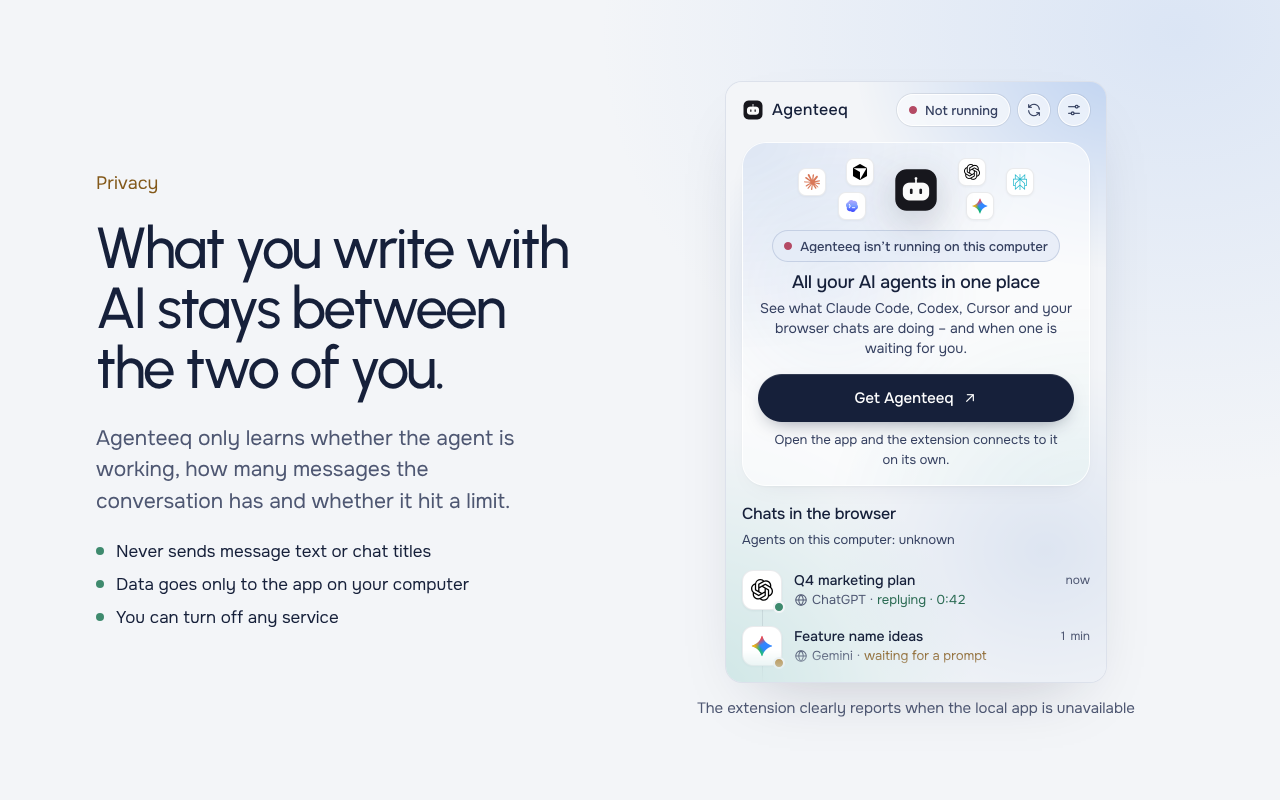
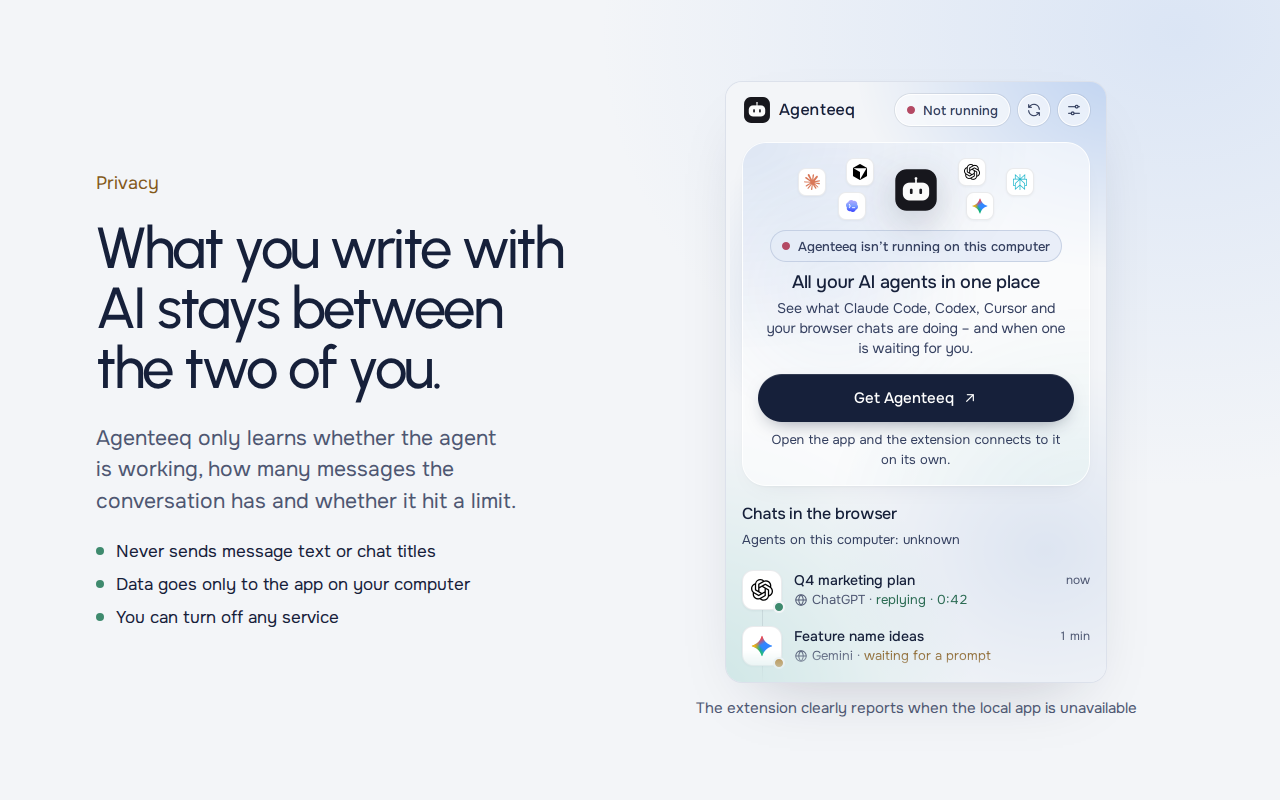
Značka v hlavičce: větší hlava robota vůči nápisu, jeden poměr všude (#255)
Hlava robota byla vedle nápisu „Agenteeq“ menší než verzálky a každý produkt
měl jiný poměr (aplikace 34 px k 20px písmu, rozšíření 22 px k 16 px, web
34 px k 19 px s mezerou 1,4× verzálek). Velikost loga se teď odvozuje z
velikosti nápisu tokeny --brand-word × --brand-mark-tile (1,9, logo v dlaždici)
nebo --brand-mark-clean (2,1, logo bez dlaždice na webu). Hlava ≈ výška
verzálek, mezera měřená od viditelného tvaru 0,55 em. Logo samo, jeho
geometrie 78:53 ani SVG se nemění.

- aplikace (postranní panel), okno rozšíření, hlavička webu (CZ/EN, 1440 i
  375 px) a stránky se zásadami (logo v dlaždici, třída brand--tile),
- qa:tvary měří velikost, mezeru a svislý střed značky na vykreslené ploše,
- test/znacka-hlavicka.test.mjs hlídá tokeny ve zdrojích,
- snímky pro Chrome Web Store přegenerované skriptem snimky.mjs,
- DESIGN.md: pravidlo „Značka v hlavičce“, CHANGELOG.

Claude-Session: https://claude.ai/code/session_019pjCMAW6NZjG9fzTfPLyCe

diff --git a/extension/popup.html b/extension/popup.html
@@ -35,6 +35,8 @@
       /* Tichá atmosféra aplikace zmenšená na okno: modré světlo vpravo nahoře, šalvěj vlevo dole. Nehýbe se. */
       --atmosphere: radial-gradient(380px 300px at 104% -4%, rgba(150, 184, 236, .58), transparent 70%), radial-gradient(400px 400px at -8% 104%, rgba(158, 212, 206, .46), transparent 70%), radial-gradient(300px 260px at 84% 78%, rgba(190, 206, 232, .40), transparent 72%);
       --w: 380px;
+      /* Značka v hlavičce: stejný poměr loga v dlaždici k nápisu jako v aplikaci (public/styles.css). */
+      --brand-word: 16px; --brand-mark-tile: 1.9;
       color-scheme: light;
     }
     /* Noc: tytéž role jako v aplikaci, inkoust a mlha si prohodí místo. */
@@ -85,7 +87,8 @@
     body[data-odrolovano='true'] .top::after { opacity: 1; }
     /* Značka otevírá aplikaci (jediné místo s touto akcí): kapsle 32 px, plocha až při najetí. Bez
        běžící aplikace je to jen značka – odkaz by vedl na nedostupnou adresu. */
-    .brand { display: inline-flex; align-items: center; gap: 8px; height: 32px; margin: 0 auto 0 -8px; padding: 0 10px 0 8px; min-width: 0; border-radius: var(--r-full); color: var(--ink); font: 500 16px/1 var(--f-display); letter-spacing: .02em; text-decoration: none; transition: background-color var(--motion-response) var(--ease), box-shadow var(--motion-response) var(--ease); }
+    .brand { --brand-mark: round(calc(var(--brand-word) * var(--brand-mark-tile)), 1px); display: inline-flex; align-items: center; gap: max(0px, calc(var(--brand-word) * .55 - var(--brand-mark) * .068)); height: 32px; margin: 0 auto 0 -8px; padding: 0 10px 0 8px; min-width: 0; border-radius: var(--r-full); color: var(--ink); font: 500 var(--brand-word)/1 var(--f-display); letter-spacing: .02em; text-decoration: none; transition: background-color var(--motion-response) var(--ease), box-shadow var(--motion-response) var(--ease); }
+    .brand > img { width: var(--brand-mark); height: var(--brand-mark); flex: none; }
     .brand .sipka { width: 14px; height: 14px; color: var(--ink-2); transition: transform var(--motion-move) var(--ease-out); }
     a.brand:hover { background: var(--glass-strong); box-shadow: inset 0 0 0 1px var(--glass-rim), 0 0 0 1px var(--hair); }
     a.brand:hover .sipka { transform: translate(2px, -2px); }
@@ -366,7 +369,7 @@
 </head>
 <body class="ext-okno" data-stav="nacitam" data-pohled="hlavni">
   <header class="top">
-    <a class="brand" id="brand" href="http://127.0.0.1:4620/" target="_blank" rel="noopener" aria-label="Otevřít aplikaci Agenteeq" title="Otevřít aplikaci Agenteeq" data-i18n-attr="aria-label,title"><img src="icons/brand.svg" width="22" height="22" alt="">Agenteeq<svg class="ico sipka" viewBox="0 0 24 24" aria-hidden="true"><path d="M7 17 17 7M8 7h9v9"/></svg></a>
+    <a class="brand" id="brand" href="http://127.0.0.1:4620/" target="_blank" rel="noopener" aria-label="Otevřít aplikaci Agenteeq" title="Otevřít aplikaci Agenteeq" data-i18n-attr="aria-label,title"><img src="icons/brand.svg" width="30" height="30" alt="">Agenteeq<svg class="ico sipka" viewBox="0 0 24 24" aria-hidden="true"><path d="M7 17 17 7M8 7h9v9"/></svg></a>
     <span class="chip chip--glass stav" id="pill" role="status"><span class="dot"></span><span id="pill-text" data-i18n>Zjišťuji…</span></span>
     <button class="icon-btn" id="refresh-popup" type="button" aria-label="Obnovit aktuální stav" title="Obnovit aktuální stav" data-i18n-attr="aria-label,title">
       <svg class="ico" viewBox="0 0 24 24" aria-hidden="true"><path d="M20 11a8 8 0 0 0-14.9-3.5M4 4v4h4M4 13a8 8 0 0 0 14.9 3.5M20 20v-4h-4"/></svg>

diff --git a/site/lp.css b/site/lp.css
@@ -30,6 +30,10 @@
   --r-tile: 28px; --r-lg: 24px; --r-md: 16px; --r-sm: 12px; --r-xs: 6px; --r-full: 999px;
   --ease: cubic-bezier(.2, .8, .2, 1);
   --page: 1120px;
+  /* Značka v hlavičce: velikost loga se odvozuje z nápisu (docs/DESIGN.md, Značka v hlavičce).
+     Logo bez dlaždice má rámeček 2,1× písmo (hlava ≈ výška verzálek, s anténou ≈ 1,4×), logo
+     v dlaždici 1,9× jako v aplikaci. Mezera se měří od viditelného tvaru: .55em. */
+  --brand-word: 19px; --brand-mark-clean: 2.1; --brand-mark-tile: 1.9;
   --unit-y: clamp(96px, 11vw, 160px);
   color-scheme: light;
 }
@@ -773,8 +777,12 @@ footer.site-footer { padding:0; border-color:rgba(255,255,255,.08); }
 .nav { background:#111017; }
 .nav.is-odjeto { background:rgba(17,16,23,.85); backdrop-filter:blur(24px) saturate(135%); -webkit-backdrop-filter:blur(24px) saturate(135%); border-bottom-color:rgba(255,255,255,.1); box-shadow:0 12px 35px -28px rgba(0,0,0,.8); }
 .nav-in { min-height:76px; gap:clamp(18px,2.5vw,36px); }
-.nav .brand { font-size:19px; gap:12px; letter-spacing:-.025em; }
-.nav .brand img { width:34px; height:34px; }
+.nav .brand { --brand-ratio:var(--brand-mark-clean); --brand-bearing:.226; --brand-mark:round(calc(var(--brand-word) * var(--brand-ratio)), 1px); font-size:var(--brand-word); letter-spacing:-.025em;
+  /* Rámeček loga má po stranách prázdno (bez dlaždice 22,6 %, dlaždice 6,8 %), proto se mezera
+     počítá od viditelného tvaru: všude .55em, stejně jako v aplikaci a rozšíření. */
+  gap:max(0px, calc(.55em - var(--brand-mark) * var(--brand-bearing))); }
+.nav .brand--tile { --brand-ratio:var(--brand-mark-tile); --brand-bearing:.068; }
+.nav .brand img { width:var(--brand-mark); height:var(--brand-mark); }
 .nav-links { gap:clamp(12px,2vw,26px); }
 .nav-links a { display:inline-flex; align-items:center; min-height:40px; border-radius:var(--r-full); padding:0 9px; transition:color .2s var(--ease),background-color .2s var(--ease); }
 .nav-links a:hover { background:rgba(255,255,255,.06); }
@@ -801,7 +809,7 @@ footer.site-footer { padding:0; border-color:rgba(255,255,255,.08); }
  #vyzkouset .steps li:hover::before { transform:translate3d(10%,8%,0); }
 }
 @media(max-width:900px) { #vyzkouset .steps li { min-height:unset; } }
-@media(max-width:620px) { .nav-in { min-height:68px; gap:12px; } .nav .brand { gap:8px; font-size:17px; } .nav .brand img { width:30px; height:30px; } #vyzkouset .steps { gap:12px; } }
+@media(max-width:620px) { .nav-in { min-height:68px; gap:12px; } .nav .brand { --brand-word:17px; } #vyzkouset .steps { gap:12px; } }
 @media(prefers-reduced-motion:reduce) { #vyzkouset .steps li,#vyzkouset .steps li::before,.nav .btn--sm { transition:none!important; transform:none!important; } }
 
 /* Compact editorial bento: one full-width real app overview, two compact pairs.

diff --git a/public/styles.css b/public/styles.css
@@ -62,6 +62,11 @@
   --r-xs: 6px;
   --r-full: 999px;
   --r-logo: 28%;
+  /* Značka v hlavičce (docs/DESIGN.md, Značka v hlavičce): velikost loga se odvozuje z velikosti
+     nápisu, aby hlava robota optický ladila s verzálkami. Logo v dlaždici má rámeček 1,9× písmo
+     (dlaždice ≈ 2,2× výška verzálek, hlava ≈ výška verzálek), logo bez dlaždice na tmavém webu 2,1×. */
+  --brand-word: 20px;
+  --brand-mark-tile: 1.9;
   /* Karty leží v ploše, nevznášejí se. Místo měkkého stínu je drží vlasová linka: hrany jsou
      ostré, takže je vidět, že jsou zarovnané – a nic se nerozmazává do okolí. Skutečné vyzdvižení
      (--shadow-lg) zůstává jen tomu, co se nad stránku opravdu vysouvá: dialogy a nabídky. */
@@ -218,8 +223,8 @@ html[data-theme='dark'] .pb-agent-logo .logo--mono { filter: none; }
    620–1200 px. Vodorovné odsazení nese `--sb-x`, aby se k němu dal přiložit pruh aktivní položky. */
 .sidebar { --sb-x: 24px; position: sticky; top: 24px; align-self: start; height: calc(100dvh - 48px); margin: 24px 0 24px 24px; padding: 32px var(--sb-x) 24px; background: var(--glass); border-radius: var(--r-lg); box-shadow: var(--shadow); display: flex; flex-direction: column; overflow: hidden; z-index: 2; }
 .sidebar > .brand, .sidebar > .side-foot { flex: none; }
-.brand { display: inline-flex; align-items: center; gap: 8px; align-self: center; text-decoration: none; font: 500 26px/1 var(--f-display); letter-spacing: -.01em; }
-.brand-mark { width: 34px; height: 34px; flex: none; }
+.brand { --brand-mark: round(calc(var(--brand-word) * var(--brand-mark-tile)), 1px); display: inline-flex; align-items: center; gap: max(0px, calc(var(--brand-word) * .55 - var(--brand-mark) * .068)); align-self: center; text-decoration: none; font: 500 26px/1 var(--f-display); letter-spacing: -.01em; }
+.brand-mark { width: var(--brand-mark); height: var(--brand-mark); flex: none; }
 .brand-mark .bm-aerial { fill: none; stroke: var(--action); stroke-width: 3.5; stroke-linecap: round; }
 .brand-mark .bm-tip { fill: var(--action); }
 .brand-mark .bm-head { fill: var(--ink); }

diff --git a/public/refinement.css b/public/refinement.css
@@ -8,8 +8,7 @@
 }
 body { font-size: var(--type-body); line-height: 1.5; letter-spacing: 0; font-kerning: normal; font-optical-sizing: auto; }
 button, input, textarea, select { font-family: var(--f-body); letter-spacing: 0; }
-.brand > span { font-size: 20px; line-height: 1; font-weight: 500; letter-spacing: -.01em; text-transform: none; }
-.brand { gap: 8px; }
+.brand > span { font-size: var(--brand-word); line-height: 1; font-weight: 500; letter-spacing: -.01em; text-transform: none; }
 .page-title { font-size: var(--type-page); line-height: 1.2; font-weight: 400; letter-spacing: -.025em; }
 .home-intro h2 { font-size: clamp(2rem, 3.1vw, var(--type-hero)); font-weight: 400; line-height: 1.15; letter-spacing: -.035em; margin: 16px 0; }
 .home-intro p { font-size: var(--type-body); line-height: 1.6; }

diff --git a/public/workbench.css b/public/workbench.css
@@ -39,9 +39,7 @@ body { letter-spacing: -.012em; }
 .page-title { font-size: 36px; font-weight: 300; letter-spacing: -.035em; }
 .sec-head h2, .sec-head h3 { font-weight: 400; font-size: 20px; letter-spacing: -.025em; }
 .card { border: 1px solid var(--line-2); box-shadow: none; }
-.brand { gap: 10px; }
 .brand > span { font: 500 15px/1 var(--f-body); text-transform: uppercase; letter-spacing: .24em; }
-.brand .brand-mark { width: 34px; height: 34px; }
 .link { background: transparent; box-shadow: none; padding-inline: 4px; color: var(--mute); }
 .link:hover { color: var(--ink); background: var(--line-2); box-shadow: none; }
 .btn, .lchip, .chip, .seg button, .lselect { font-weight: 500; box-shadow: none; }

diff --git a/site/soukromi/index.html b/site/soukromi/index.html
@@ -28,7 +28,7 @@
 <a class="skip" href="#obsah">Přeskočit na obsah</a>
 
 <header class="nav"><div class="wrap nav-in">
-  <a class="brand" href="/" aria-label="Agenteeq – domů"><img src="/brand/agenteeq-mark-dark.svg" alt="" width="28" height="28"><span>Agenteeq</span></a>
+  <a class="brand brand--tile" href="/" aria-label="Agenteeq – domů"><img src="/brand/agenteeq-mark-dark.svg" alt="" width="28" height="28"><span>Agenteeq</span></a>
   <div class="lang" role="group" aria-label="Jazyk stránky"><a href="/soukromi" lang="cs" hreflang="cs" aria-current="page" aria-label="Čeština">CZ</a><a href="/en/privacy" lang="en" hreflang="en" aria-label="English">EN</a></div>
 </div></header>
 

diff --git a/site/en/privacy/index.html b/site/en/privacy/index.html
@@ -28,7 +28,7 @@
 <a class="skip" href="#obsah">Skip to content</a>
 
 <header class="nav"><div class="wrap nav-in">
-  <a class="brand" href="/en" aria-label="Agenteeq – home"><img src="/brand/agenteeq-mark-dark.svg" alt="" width="28" height="28"><span>Agenteeq</span></a>
+  <a class="brand brand--tile" href="/en" aria-label="Agenteeq – home"><img src="/brand/agenteeq-mark-dark.svg" alt="" width="28" height="28"><span>Agenteeq</span></a>
   <div class="lang" role="group" aria-label="Page language"><a href="/soukromi" lang="cs" hreflang="cs" aria-label="Čeština">CZ</a><a href="/en/privacy" lang="en" hreflang="en" aria-current="page" aria-label="English">EN</a></div>
 </div></header>
 

diff --git a/public/index.html b/public/index.html
@@ -42,7 +42,7 @@
 
     <aside class="sidebar">
       <a class="brand" href="#/prehled" aria-label="Agenteeq – přehled">
-        <img class="brand-mark" src="/brand/agenteeq-mark.svg" width="48" height="48" alt="" aria-hidden="true">
+        <img class="brand-mark" src="/brand/agenteeq-mark.svg" width="38" height="38" alt="" aria-hidden="true">
         <span>Agenteeq</span>
       </a>
       <div class="profile"><div class="profile-in" id="profile"></div></div>

diff --git a/docs/DESIGN.md b/docs/DESIGN.md
@@ -22,6 +22,15 @@ nepoužívá. Oficiální SVG master pro Dock je `public/brand/agenteeq-dock.svg
 binární ikona `desktop/Agenteeq.icns`. Motiv trojzubce i fialová anténa jsou
 zakázané. Zdrojové logo zůstává oddělené pro malé plochy menu baru.
 
+**Značka v hlavičce (logo + nápis, issue #255).** Velikost loga se odvozuje z velikosti nápisu,
+nikdy se nezapisuje číslem: `--brand-word` (aplikace 20 px, rozšíření 16 px, web 19 px / na
+telefonu 17 px) × poměr varianty. Logo v dlaždici (aplikace, rozšíření, stránky se zásadami)
+má rámeček **1,9×** písmo (`--brand-mark-tile`): dlaždice ≈ 2,2× výška verzálek, hlava ≈ výška
+verzálek. Logo bez dlaždice (tmavá hlavička webu) má rámeček **2,1×** (`--brand-mark-clean`):
+hlava ≈ 1,05× verzálek, s anténou ≈ 1,4×. Mezera se měří od viditelného tvaru (ne od rámečku
+SVG) a je všude **0,55 em**. Logo je svisle na středu nápisu a nikdy se nedeformuje. Hlídá
+`test/znacka-hlavicka.test.mjs` a na vykreslené ploše `npm run qa:tvary`.
+
 ## Písmo Satoshi a licence
 
 Satoshi (Indian Type Foundry, ITF Free Font License 2.0) smí být vložené do aplikace, rozšíření a na vlastní web, ale nesmí ležet ve veřejném repozitáři (§ 02). Soubor proto stahuje `scripts/satoshi.mjs` z Fontshare při sestavení a ověří ho podle SHA-256; bez souboru se sází Onest a server pravidlo `@font-face` vůbec nepošle. Soubor se nesmí upravovat ani převádět (žádné subsetování).

diff --git a/CHANGELOG.md b/CHANGELOG.md
@@ -1,5 +1,9 @@
 # Changelog
 
+## Připravované změny po 0.46.15
+
+- **Vyváženější značka v hlavičce.** Hlava robota vedle nápisu „Agenteeq“ byla opticky menší než písmena. Teď je zhruba stejně vysoká jako velká písmena nápisu a mezera mezi logem a nápisem je všude stejná – v postranním panelu aplikace, v okně rozšíření pro Chrome i v hlavičce webu (na počítači i na telefonu). Samotné logo ani jeho proporce se nemění.
+
 ## 0.46.15 – 2026-10-16 · Aktuální Preview kandidát se sjednoceným changelogem a distribucí
 
 - **Všechna funkční vylepšení od veřejné 0.46.12 v jednom kandidátu.** Bezpečnější aktualizace a restart Apple Silicon aplikace (včetně zaseknuté služby, potvrzení před ukončením vlastních agentů, návratu původního balíčku při chybě), pravdivý průběh přenesených dat a fáze instalace. Běžný Quit a skutečná výměna balíčku mají nativní macOS regresní QA.
